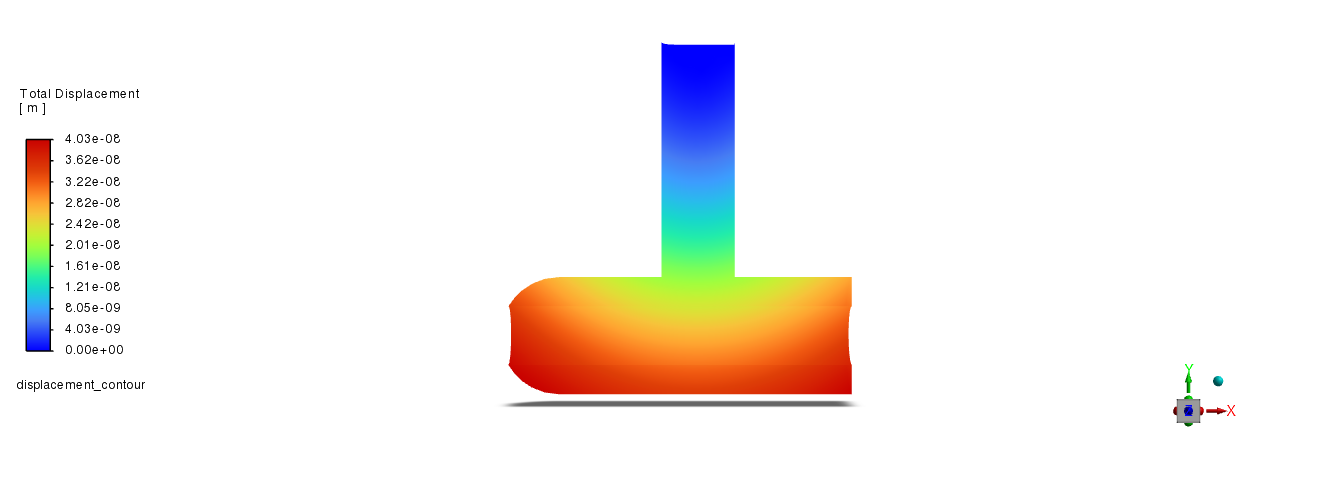
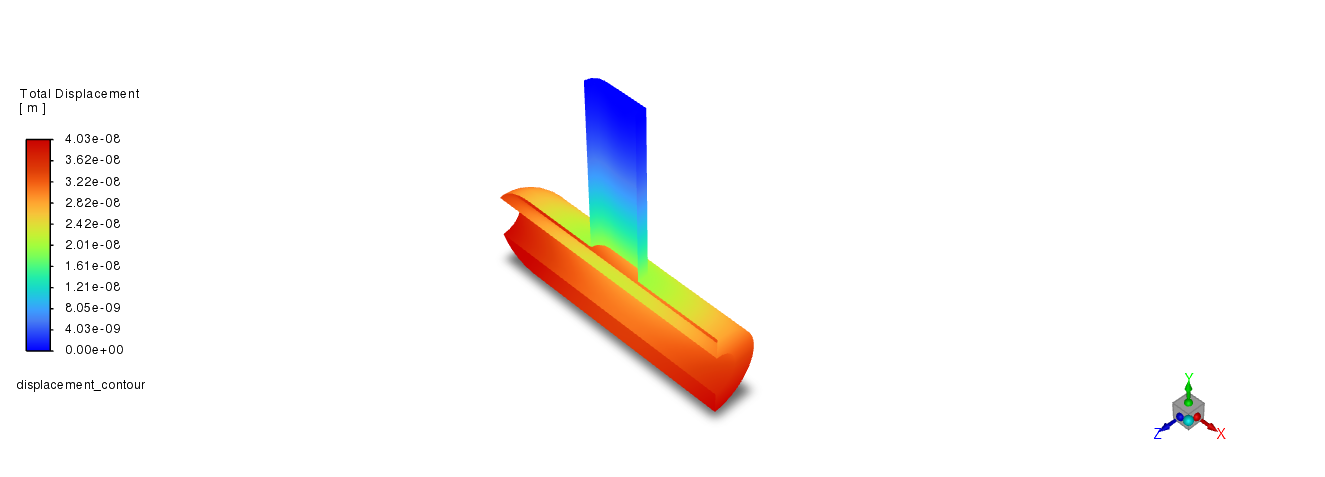
Updated total displacement plot to isometric view

Changed region(s): [[0.3713, 0.0881, 0.6498, 0.8805], [0.8664, 0.7925, 0.9283, 0.9099]]

diff --git a/examples/00-fluent/fsi_1way_workflow.py b/examples/00-fluent/fsi_1way_workflow.py
@@ -194,7 +194,7 @@ displacement_contour.field = "total-displacement"
 displacement_contour.surfaces_list = ["fsisurface-solid"]
 displacement_contour.range_options.compute()
 
-graphics_object.views.restore_view(view_name="front")
+graphics_object.views.restore_view(view_name="isometric")
 displacement_contour.display()
 graphics_object.picture.save_picture(file_name="fsi_1way_3.png")
 
